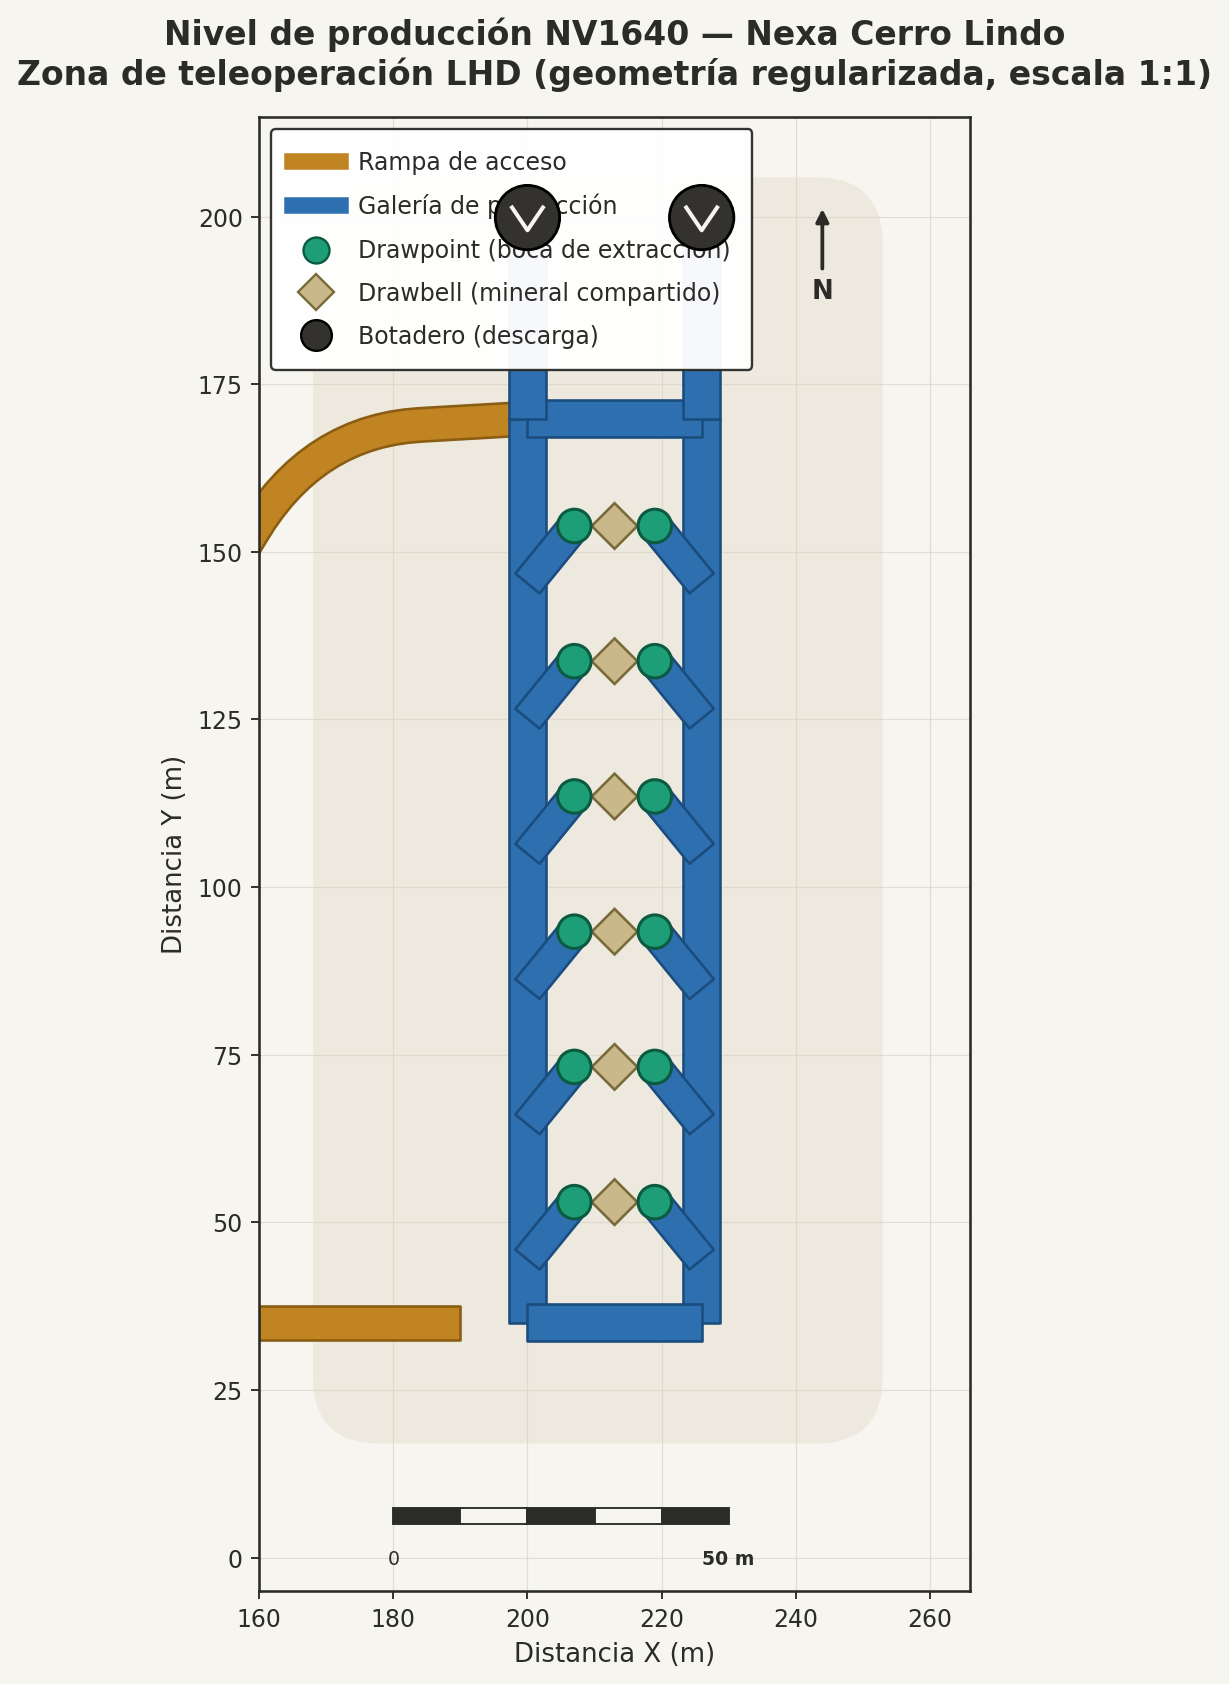
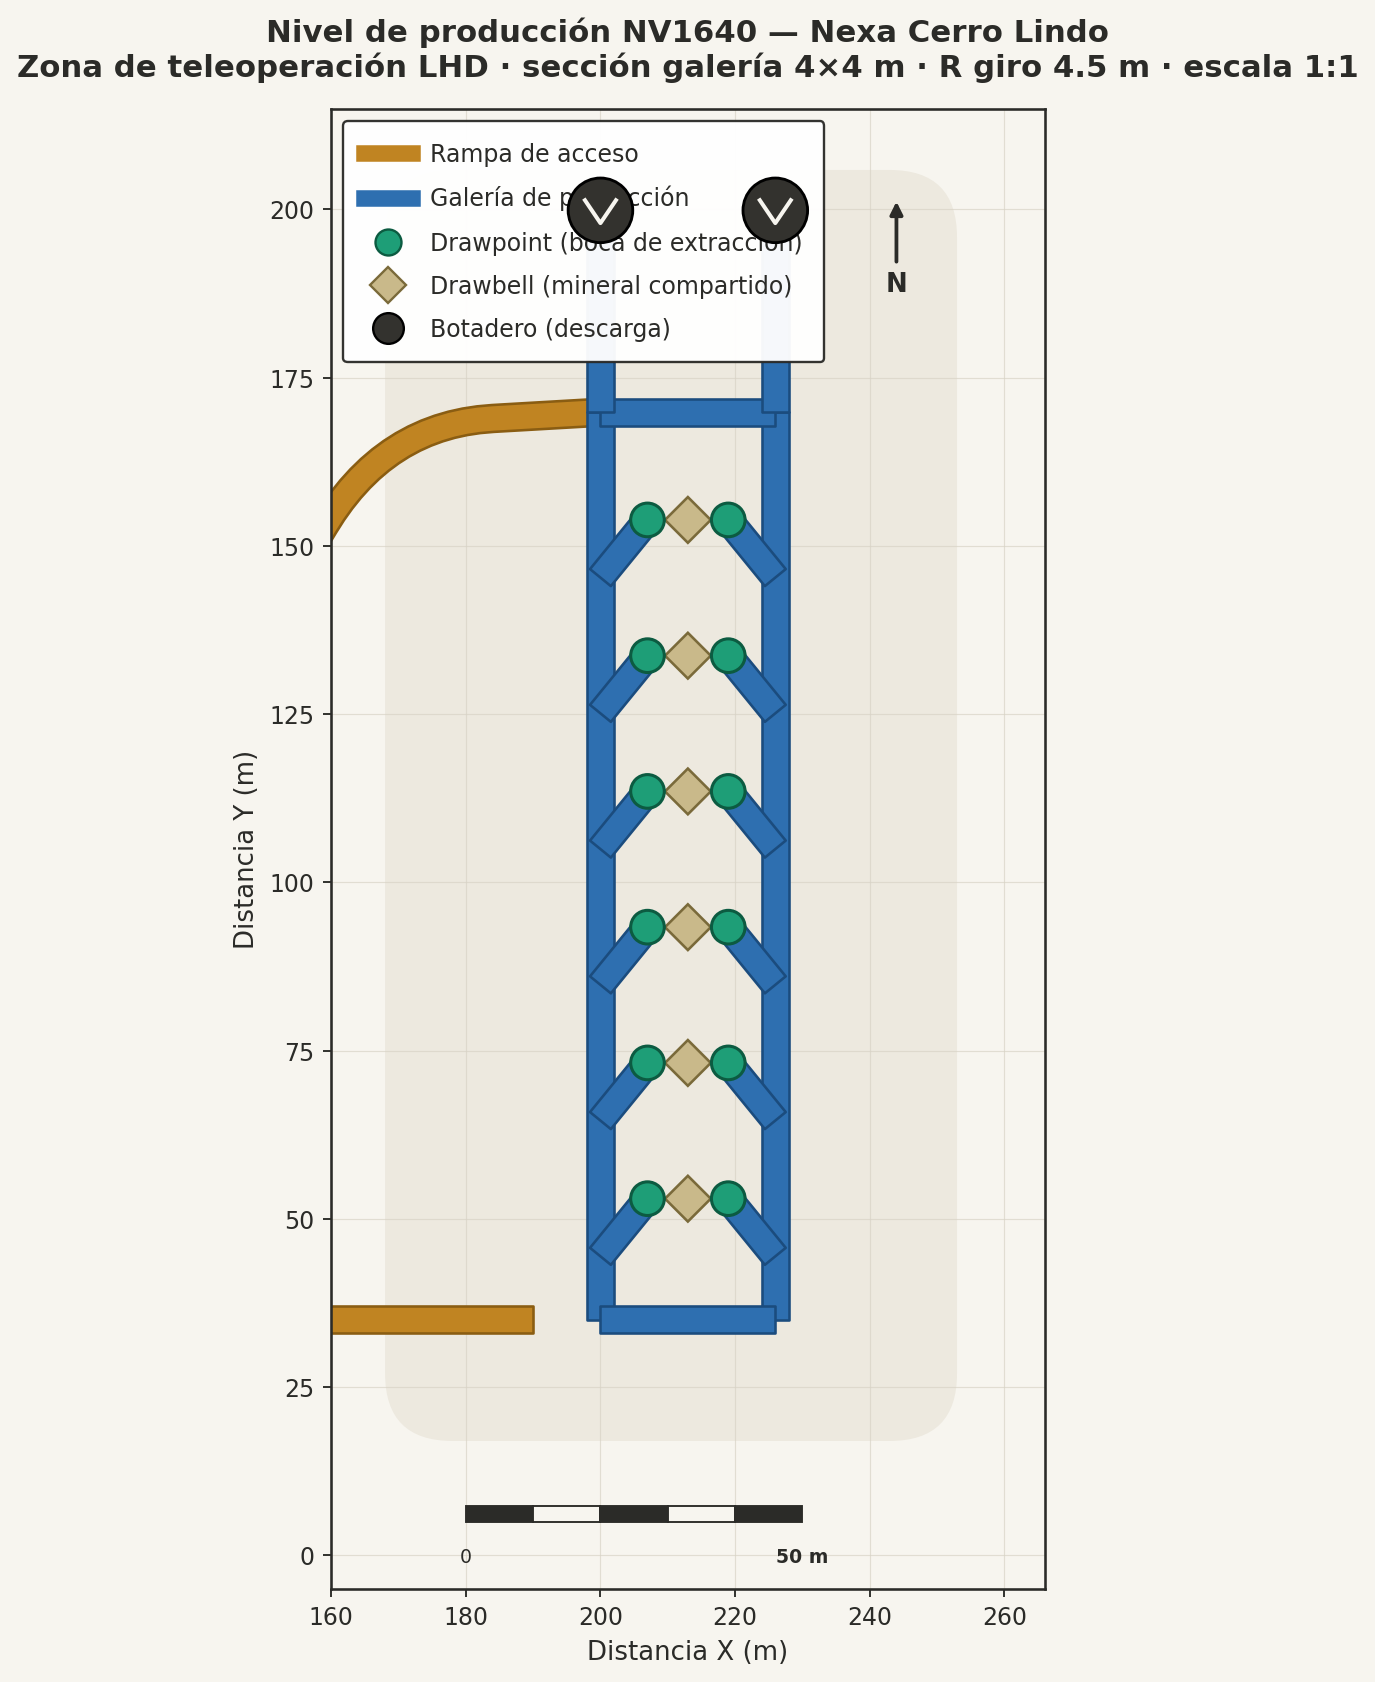
Plano NV1640: aplica sección 4x4 m y radio R4.5 del plano AutoCAD
Galerías dibujadas con ancho real de 4 m (dato SEC. 4X4 del plano) en lugar
del 5.5 m provisional. Documenta sección 4x4 y radio de giro 4.5 m en el título.

diff --git a/cap3/simulacion_ns3/graficas_simulacion/plano_nv1640_pro.py b/cap3/simulacion_ns3/graficas_simulacion/plano_nv1640_pro.py
@@ -87,7 +87,10 @@ BG="#F7F5EF"; ROCK="#EDE9DF"; INK="#2B2B28"
 C_PROD="#2E6FB0"; C_PROD_ED="#1B4C7E"
 C_RAMPA="#C08422"; C_RAMPA_ED="#8A5D12"
 C_DRAW="#1E9E77"; C_DRAW_ED="#0C5B41"; C_BOT="#33322E"
-W_PROD=5.5; W_RAMPA=5.0
+# Anchos reales del plano AutoCAD: SEC. 4X4 = galería de 4 m de ancho.
+# R4.5 = radio de curva 4.5 m en los codos del camino.
+W_PROD=4.0; W_RAMPA=4.0   # sección 4x4 m (dato del plano)
+RADIO_CURVA=4.5           # R4.5 m (dato del plano)
 
 plt.rcParams.update({"font.family":"DejaVu Sans","axes.edgecolor":INK,
     "axes.linewidth":1.1,"text.color":INK,"axes.labelcolor":INK,
@@ -138,8 +141,8 @@ for g in [GAL_1,GAL_2,CRU_SUP,CRU_INF]+SUBE_BOT:
 
 # costillas El Teniente: dos por drawbell, convergen al centro.
 for c in DBELLS:
-    ribbon(ax,c["seg1"],W_PROD*0.85,C_PROD,C_PROD_ED,z=3)
-    ribbon(ax,c["seg2"],W_PROD*0.85,C_PROD,C_PROD_ED,z=3)
+    ribbon(ax,c["seg1"],W_PROD,C_PROD,C_PROD_ED,z=3)
+    ribbon(ax,c["seg2"],W_PROD,C_PROD,C_PROD_ED,z=3)
 for c in DBELLS:
     # drawbell común (rombo gris) al centro
     db=c["db"]
@@ -184,8 +187,8 @@ lg.get_frame().set_facecolor("#FFFFFF")
 ax.set_aspect("equal"); ax.grid(True,color="#D8D3C6",lw=0.5,alpha=0.7,zorder=0)
 ax.set_xlabel("Distancia X (m)",fontsize=11); ax.set_ylabel("Distancia Y (m)",fontsize=11)
 ax.set_title("Nivel de producción NV1640 — Nexa Cerro Lindo\n"
-             "Zona de teleoperación LHD (geometría regularizada, escala 1:1)",
-             fontsize=14,fontweight="bold",pad=14)
+             "Zona de teleoperación LHD · sección galería 4×4 m · R giro 4.5 m · escala 1:1",
+             fontsize=13,fontweight="bold",pad=14)
 ax.set_xlim(min(allx)-40,max(allx)+40); ax.set_ylim(Y_BASE-40,Y_TOP+45)
 
 plt.tight_layout()
